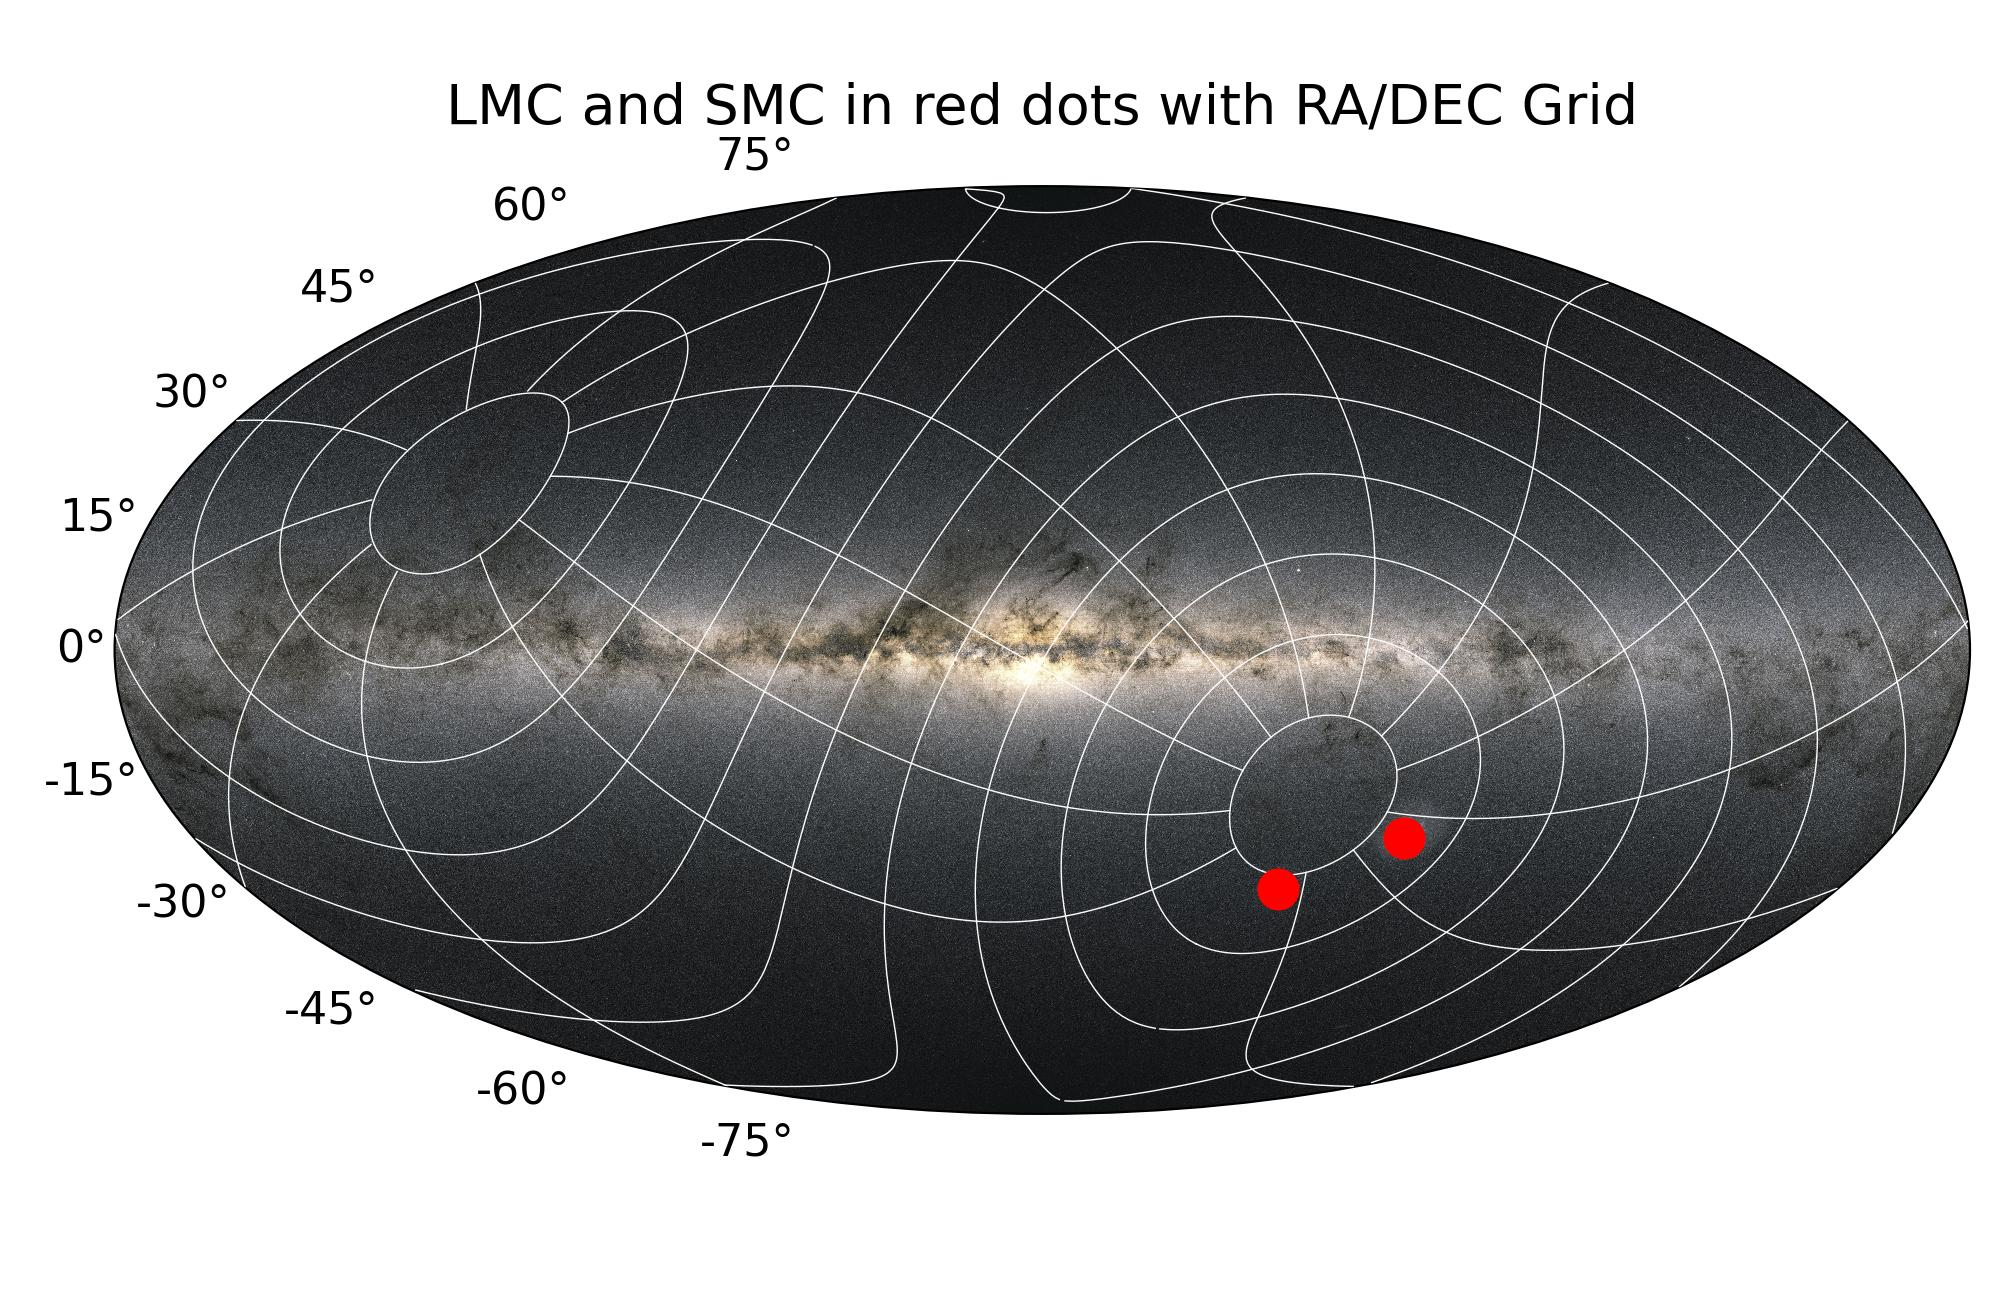
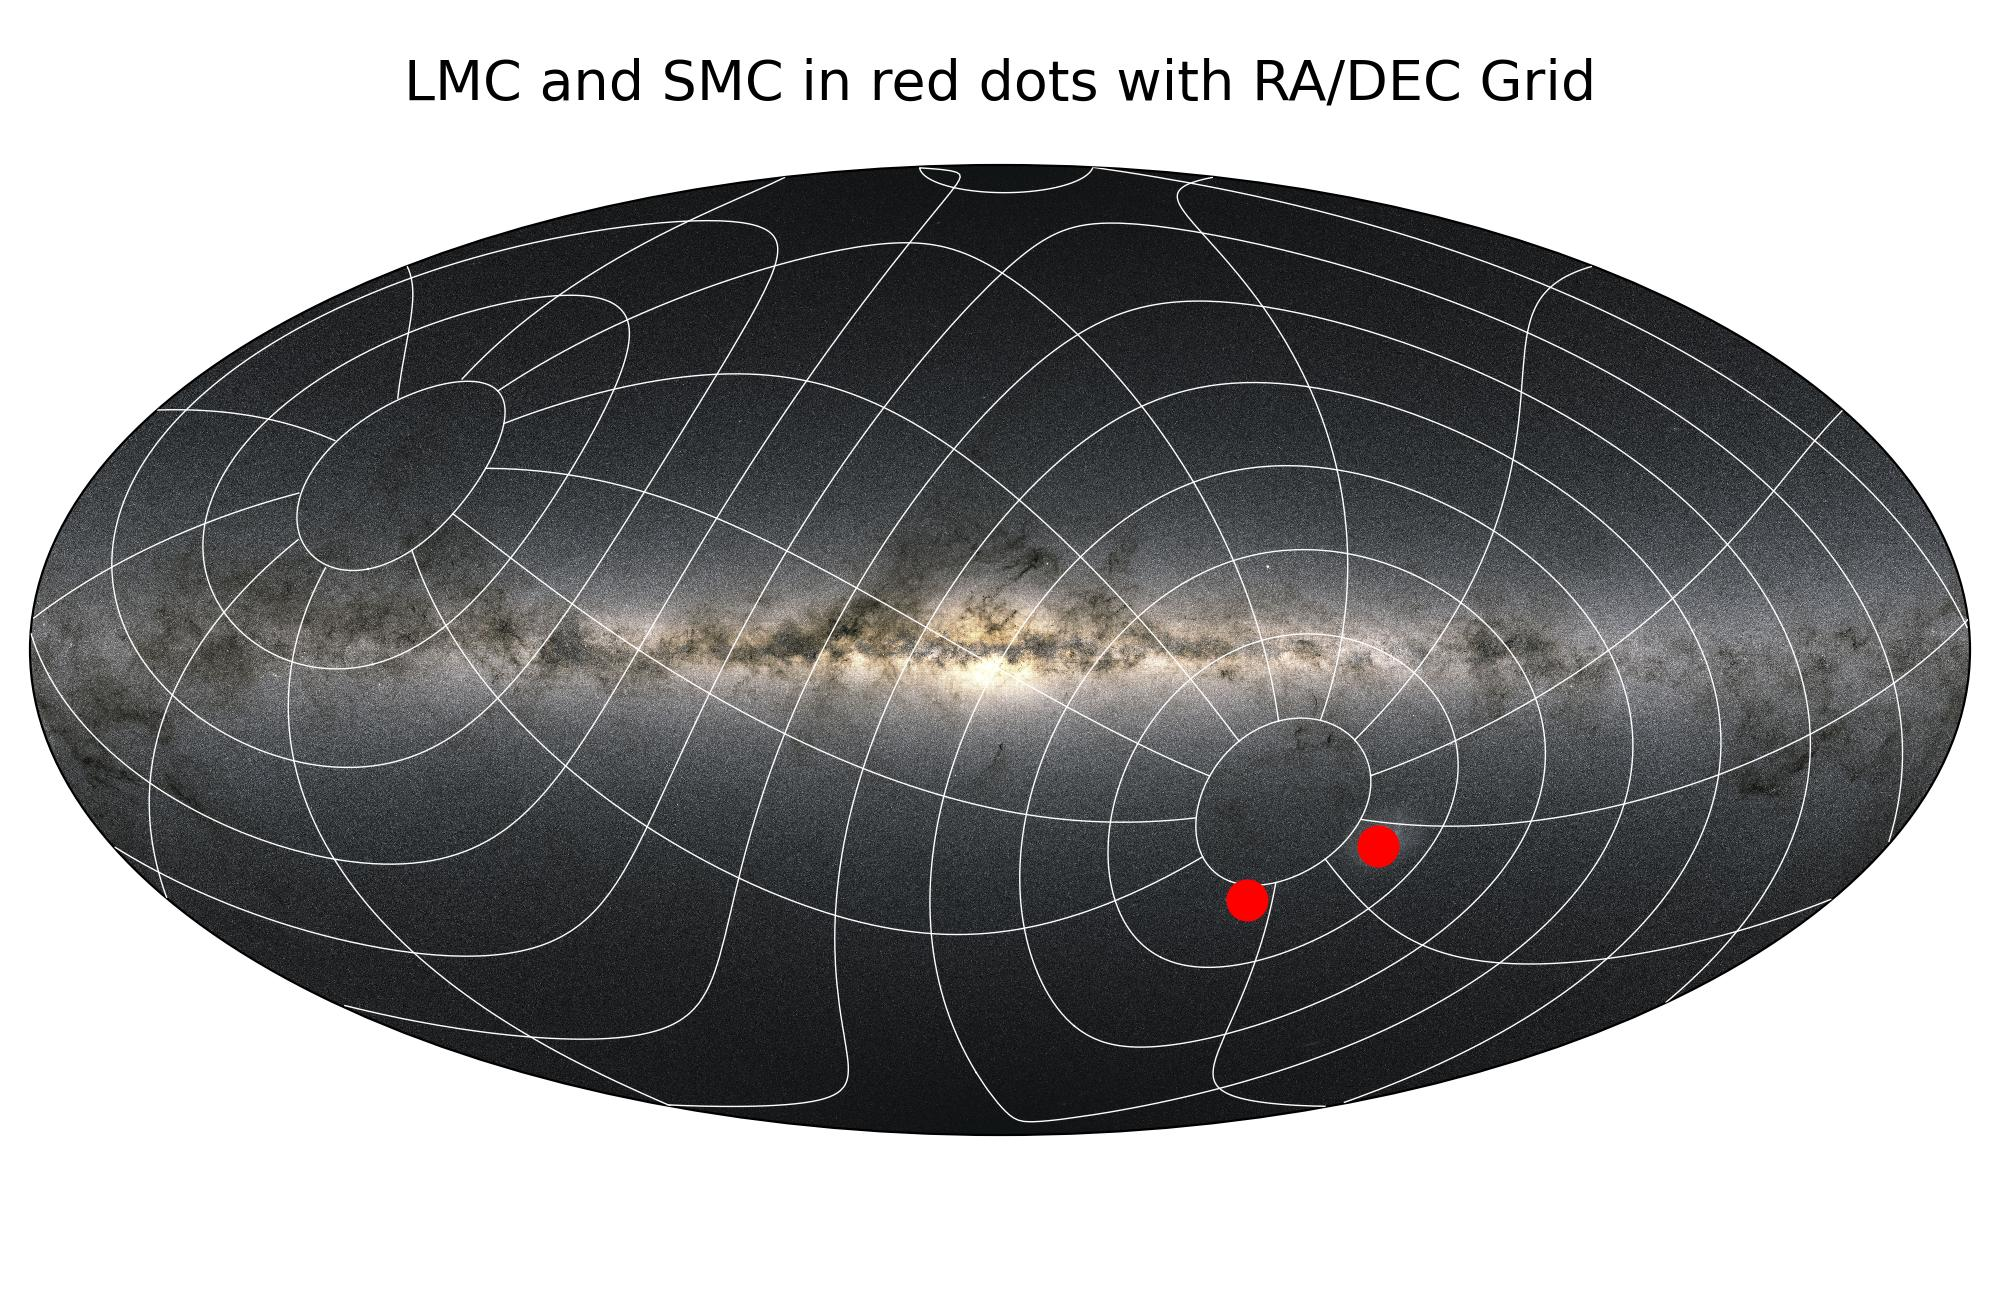
add ecliptic grid too

Changed region(s): [[0.0, 0.0308, 0.992, 0.8923]]

diff --git a/mw_plot/mw_plot_matplotlib.py b/mw_plot/mw_plot_matplotlib.py
@@ -444,6 +444,8 @@ class MWSkyMap(MWSkyMapMaster):
     :type grid: bool
     :param radecgrid: whether to show ra & dec grid
     :type radecgrid: bool
+    :param eclgrid: whether to show ecliptic grid
+    :type eclgrid: bool
 
     :param figsize: Matplotlib figure size
     :type figsize: turple
@@ -459,6 +461,7 @@ class MWSkyMap(MWSkyMapMaster):
         grayscale=False,
         grid=False,
         radecgrid=False,
+        eclgrid=False,
         figsize=(10, 6.5),
         dpi=None,
     ):
@@ -478,6 +481,7 @@ class MWSkyMap(MWSkyMapMaster):
         self.imalpha = 1.0
         self.tight_layout = True
         self.radecgrid = radecgrid
+        self.eclgrid = eclgrid
 
         self.fig = None
         self.ax = None
@@ -560,6 +564,10 @@ class MWSkyMap(MWSkyMapMaster):
 
         :return: None
         """
+        if self._projection == "equirectangular":
+            self._fake_rad2deg = np.rad2deg
+        else:
+            self._fake_rad2deg = lambda x: x
         if not self._initialized:
             if self._projection == "equirectangular":
                 if self.fig is None and fig is None:
@@ -631,38 +639,128 @@ class MWSkyMap(MWSkyMapMaster):
             self._initialized = True
             if self.grid is True:
                 for i in [0, -15, 15, -30, 30, -45, 45, -60, 60, -75, 75]:
-                    self.ax.plot(np.deg2rad([-180, 180]), np.deg2rad([i, i]), c=self._opposite_color, lw=0.5, zorder=3)
+                    self.ax.plot(
+                        self._fake_rad2deg(np.deg2rad([-180, 180])),
+                        self._fake_rad2deg(np.deg2rad([i, i])),
+                        c=self._opposite_color,
+                        lw=0.5,
+                        zorder=3,
+                    )
                 for i in [-150, -120, -90, -60, -30, 0, 30, 60, 90, 120, 150]:
-                    self.ax.plot(np.deg2rad([i, i]), np.deg2rad([-75, 75]), c=self._opposite_color, lw=0.5, zorder=3)
+                    self.ax.plot(
+                        self._fake_rad2deg(np.deg2rad([i, i])),
+                        self._fake_rad2deg(np.deg2rad([-75, 75])),
+                        c=self._opposite_color,
+                        lw=0.5,
+                        zorder=3,
+                    )
+            else:
+                # disable ticks if not galactic grid
+                self.ax.set_yticklabels([])
 
             if self.radecgrid is True:
                 for i in [-75, -60, -45, -30, -15, 0, 15, 30, 45, 60, 75]:
                     ras = np.linspace(0, 360, 360)
                     des = np.linspace(i, i, 360)
                     l, b = radec_to_lb(ras, des, degree=True).T
-                    l = - (l + 180) % (2 * 180) - 180
-                    if np.max(np.diff(l)) > 1.:
+                    l = -(l + 180) % (2 * 180) - 180
+                    if np.max(np.diff(l)) > 100.0:
                         idx = np.argmax(np.diff(l)) + 1
                         l = np.concatenate([l[idx:], l[:idx]])
                         b = np.concatenate([b[idx:], b[:idx]])
-                    self.ax.plot(np.deg2rad(l), np.deg2rad(b), c="white", lw=0.5, zorder=3)
+                    self.ax.plot(
+                        self._fake_rad2deg(np.deg2rad(l)), self._fake_rad2deg(np.deg2rad(b)), c="white", lw=0.5, zorder=3
+                    )
 
                 for i in [30, 60, 90, 120, 150, 180, 210, 240, 270, 300, 330]:
                     ras = np.linspace(i, i, 360)
                     des = np.linspace(-75, 75, 360)
                     l, b = radec_to_lb(ras, des, degree=True).T
-                    l = - (l + 180) % (2 * 180) - 180
+                    l = -(l + 180) % (2 * 180) - 180
                     if np.max(np.diff(l)) > 0.25:
                         idx = np.argmax(np.diff(l))
                         idx = np.argmax(l) + 1
                         l = np.concatenate([l[idx:], l[:idx]])
                         b = np.concatenate([b[idx:], b[:idx]])
                         idx_break = np.argmax(np.diff(l))
-                        self.ax.plot(np.deg2rad(l[:idx_break]), np.deg2rad(b[:idx_break]), c="white", lw=0.5, zorder=3)
-                        self.ax.plot(np.deg2rad(l[idx_break+1:]), np.deg2rad(b[idx_break+1:]), c="white", lw=0.5, zorder=3) 
+                        self.ax.plot(
+                            self._fake_rad2deg(np.deg2rad(l[:idx_break])),
+                            self._fake_rad2deg(np.deg2rad(b[:idx_break])),
+                            c="white",
+                            lw=0.5,
+                            zorder=3,
+                        )
+                        self.ax.plot(
+                            self._fake_rad2deg(np.deg2rad(l[idx_break + 1 :])),
+                            self._fake_rad2deg(np.deg2rad(b[idx_break + 1 :])),
+                            c="white",
+                            lw=0.5,
+                            zorder=3,
+                        )
                     else:
-                        self.ax.plot(np.deg2rad(l), np.deg2rad(b), c="white", lw=0.5, zorder=3)
+                        self.ax.plot(
+                            self._fake_rad2deg(np.deg2rad(l)), self._fake_rad2deg(np.deg2rad(b)), c="white", lw=0.5, zorder=3
+                        )
 
+            if self.eclgrid is True:
+                def ecl_to_lb(elon, elat):
+                    """
+                    elon and elat in radian
+                    """
+                    e = 23.43928083333333 / 180 * np.pi
+                    atan_top = (np.sin(elon) * np.cos(e) - np.tan(elat) * np.sin(e))
+                    atan_bottom = np.cos(elon)
+                    ra = np.arctan(atan_top / atan_bottom)
+                    dec = np.arcsin(
+                        np.sin(elat) * np.cos(e)
+                        + np.cos(elat) * np.sin(e) * np.sin(elon)
+                    )
+                    case_1_idx = (atan_top > 0) & (atan_bottom < 0)
+                    case_2_idx = (atan_top < 0) & (atan_bottom > 0)
+                    case_3_idx = (atan_top < 0) & (atan_bottom < 0)
+                    ra[case_1_idx] += np.pi
+                    ra[case_2_idx] += 2*np.pi
+                    ra[case_3_idx] += 3*np.pi
+                    l, b = radec_to_lb(ra, dec).T
+                    l = -(l + np.pi) % (2 * np.pi) - np.pi
+                    return l, b
+
+                for i in [-75, -60, -45, -30, -15, 0, 15, 30, 45, 60, 75]:
+                    elon = np.linspace(0, 360, 360)
+                    elat = np.linspace(i, i, 360)
+                    l, b = ecl_to_lb(np.deg2rad(elon), np.deg2rad(elat))
+                    if np.max(np.diff(l)) > 2.0:
+                        idx = np.argmax(np.diff(l)) + 1
+                        l = np.concatenate([l[idx:], l[:idx]])
+                        b = np.concatenate([b[idx:], b[:idx]])
+                    self.ax.plot(self._fake_rad2deg(l), self._fake_rad2deg(b), c="white", lw=0.5, zorder=3)
+
+                for i in [30, 60, 90, 120, 150, 180, 210, 240, 270, 300, 330]:
+                    elon = np.linspace(i, i, 360)
+                    elat = np.linspace(-75, 75, 360)
+                    l, b = ecl_to_lb(np.deg2rad(elon), np.deg2rad(elat))
+                    if np.max(np.diff(l)) > 0.004:
+                        idx = np.argmax(np.diff(l))
+                        idx = np.argmax(l) + 1
+                        l = np.concatenate([l[idx:], l[:idx]])
+                        b = np.concatenate([b[idx:], b[:idx]])
+                        idx_break = np.argmax(np.diff(l))
+                        self.ax.plot(
+                            self._fake_rad2deg(l[:idx_break]),
+                            self._fake_rad2deg(b[:idx_break]),
+                            c="white",
+                            lw=0.5,
+                            zorder=3,
+                        )
+                        self.ax.plot(
+                            self._fake_rad2deg(l[idx_break + 1 :]),
+                            self._fake_rad2deg(b[idx_break + 1 :]),
+                            c="white",
+                            lw=0.5,
+                            zorder=3,
+                        )
+                    else:
+                        self.ax.plot(self._fake_rad2deg(l), self._fake_rad2deg(b), c="white", lw=0.5, zorder=3)
 
     def show(self, *args, **kwargs):
         if self.fig is None:

diff --git a/docs/source/matplotlib_single.rst b/docs/source/matplotlib_single.rst
@@ -130,3 +130,25 @@ You can also plot with grid
     mw1.scatter(lsmc_ra, lsmc_dec, c="r", s=200)
 
 .. image:: matplotlib_imgs/single_lmcsmc_w_radecgrid.jpg
+
+.. code-block:: python
+    :linenos:
+
+    import numpy as np
+    from astropy import units as u
+    from mw_plot import MWSkyMap
+
+    # setup a MWSkyMap instance with projection, other projection can be 'hammer', 'mollweide' etc
+    # radecgrid: whether to show the RA/DEC grid
+    mw1 = MWSkyMap(projection="aitoff", eclgrid=True)
+
+    # set up plot title
+    mw1.title = "LMC and SMC in red dots with Ecliptic Grid"
+
+    # LMC and SMC coordinates
+    lsmc_ra = [78.77, 16.26] * u.degree
+    lsmc_dec = [-69.01, -72.42] * u.degree
+
+    mw1.scatter(lsmc_ra, lsmc_dec, c="r", s=200)
+
+.. image:: matplotlib_imgs/single_lmcsmc_w_eclgrid.jpg

diff --git a/CHANGELOG.md b/CHANGELOG.md
@@ -1,7 +1,7 @@
 ## [0.11.0] - WIP
 ### Changed
 - Using new Matplotlib `pcolormesh` API introduced in v3.7.0 to plot sky map with projections faster with less memory
-- Add option to plot grid in sky map with projection (e.g., "aitoff")
+- Add option to plot galactic grid, equatorial grid and ecliptic grid in sky map
 
 ## [0.10.0] - 1 March 2023
 ### Changed
